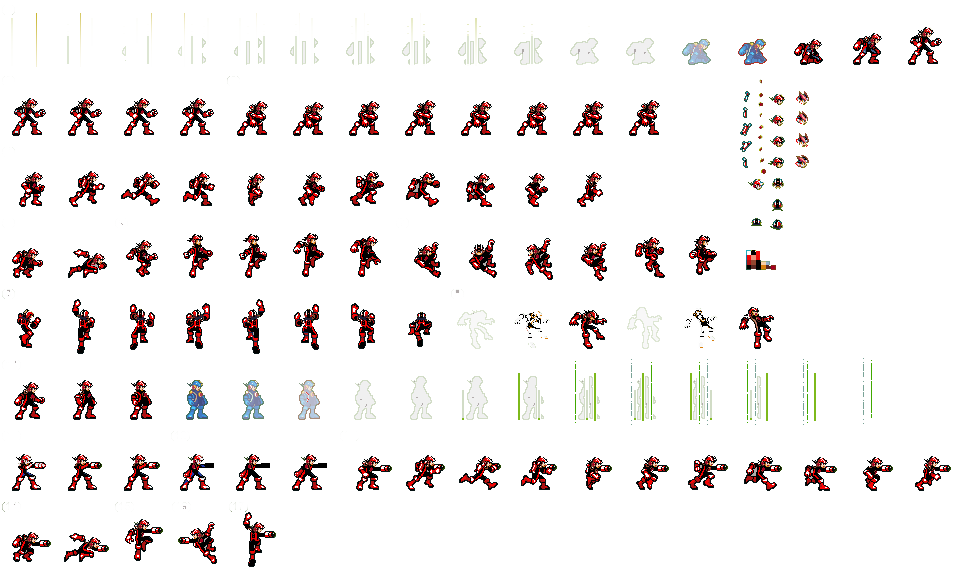
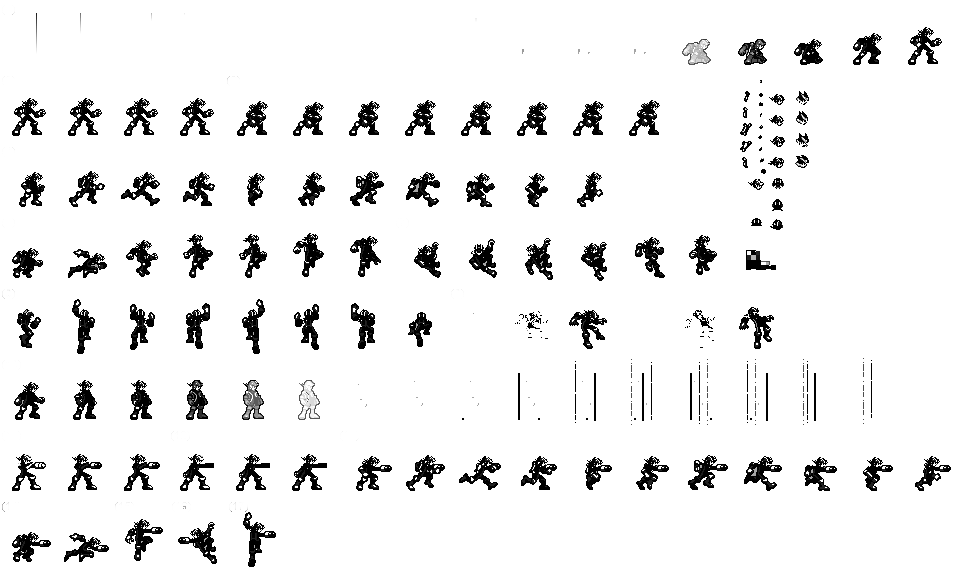
Double jump and recolour.

diff --git a/JS/player.js b/JS/player.js
@@ -1,3 +1,7 @@
+// Constants
+MAX_HEALTH = 3
+JUMP_SPEED = 400
+
 // Player constructor
 var Player = function(game, x, y) 
 {
@@ -17,17 +21,22 @@ var Player = function(game, x, y)
 	this.animations.add('idle', [17,18,19,17,17,17,18,19,17,17,18,19,20,85,86,87,86,85,20,19,17]);
 	this.animations.add('hurt', [21,22,23,24,25,26,27,28]);
 	this.animations.add('crouch',[14]);
-	this.animations.add('jump', [51,53,54]);
+	this.animations.add('jump', [53]);
 	this.animations.add('air', [54,55]);
 	this.animations.add('land', [56,57,51]);
 	this.animations.add('shootIdle', [103]);
 	this.animations.add('shootRun', [108,109,110,111,112,113,114,115,116,117,118]);
 	this.animations.add('shootAir', [121]);
+	this.animations.add('hit', [76,77,78]);
 	
 	// player attributes
-	this.health = 3;
+	this.health = MAX_HEALTH;
 	this.anchor.setTo(.5, 1);
 	this.direction = MoveState.RIGHT;
+	this.damageStep = false;
+	
+	this.jumps = 0;
+	this.jumping = false;
 	
 	// Enable phyiscs on player
 	game.physics.enable(this, Phaser.Physics.ARCADE);
@@ -51,131 +60,170 @@ Player.prototype.constructor = Player;
 
 Player.prototype.update = function() {
 	playerMovement(this); // Keyboard Controls
+	if (this.health <= 0)
+	{
+		this.kill();
+	}
 };
 
 function playerMovement(player) 
 {
-	/** Left Button **/
-	if (wasd.left.isDown)
+	if (!player.damageStep)
 	{
-		// Is facing the wrong way, flip sprite horizontally.
-		if (player.direction == MoveState.RIGHT)
+		/** Left Button **/
+		if (wasd.left.isDown)
 		{
-			player.scale.x *= -1;
-			player.direction = MoveState.LEFT;
-			player.weapon.fireAngle =180;
-			player.weapon.trackSprite(player, -24, -33);
-		}
-		
-		// If player is stood on a surface
-		if (player.body.onFloor())
-		{
-			// Accelerate player left.
-			if(player.body.velocity.x > -50)
+			// Is facing the wrong way, flip sprite horizontally.
+			if (player.direction == MoveState.RIGHT)
 			{
-				player.body.velocity.x = -50;
-			}
-			else if(player.body.velocity.x >= -295)
-			{
-				player.body.velocity.x -= 5;
+				player.scale.x *= -1;
+				player.direction = MoveState.LEFT;
+				player.weapon.fireAngle =180;
+				player.weapon.trackSprite(player, -24, -33);
 			}
 			
-			drawWalkFrames(player);
-		}
-		// Else if player is airbourne
-		else
-		{
-			drawAirFrames(player);
-			
-			// slow player's horizontal movement (drag)
-			player.body.velocity.x *= 0.995;
-			
-			// Give player some in-air control.
-			if (player.body.velocity.x > -200)
+			// If player is stood on a surface
+			if (player.body.onFloor())
 			{
-				player.body.velocity.x -= 5
+				// Accelerate player left.
+				if(player.body.velocity.x > -50)
+				{
+					player.body.velocity.x = -50;
+				}
+				else if(player.body.velocity.x >= -295)
+				{
+					player.body.velocity.x -= 5;
+				}
+				
+				drawWalkFrames(player);
+			}
+			// Else if player is airbourne
+			else
+			{
+				drawAirFrames(player);
+				
+				// slow player's horizontal movement (drag)
+				player.body.velocity.x *= 0.995;
+				
+				// Give player some in-air control.
+				if (player.body.velocity.x > -200)
+				{
+					player.body.velocity.x -= 5
+				}
 			}
 		}
-	}
-	/** Right Button **/
-	else if (wasd.right.isDown)
-	{
-		// Is facing the wrong way, flip sprite horizontally.
-		if (player.direction == MoveState.LEFT)
+		/** Right Button **/
+		else if (wasd.right.isDown)
 		{
-			player.scale.x *= -1;
-			player.direction = MoveState.RIGHT;
-			player.weapon.fireAngle = 0;
-			player.weapon.trackSprite(player, 24, -33);
-		}
-		
-		// If player is stood on a surface
-		if (player.body.onFloor())
-		{	
-			// Accelerate player right.
-			if(player.body.velocity.x < 50)
+			// Is facing the wrong way, flip sprite horizontally.
+			if (player.direction == MoveState.LEFT)
 			{
-				player.body.velocity.x = 50;
-			}
-			else if(player.body.velocity.x <= 295)
-			{
-				player.body.velocity.x += 5;
+				player.scale.x *= -1;
+				player.direction = MoveState.RIGHT;
+				player.weapon.fireAngle = 0;
+				player.weapon.trackSprite(player, 24, -33);
 			}
 			
-			drawWalkFrames(player);
-		}
-		// Else if player is airbourne
-		else
-		{
-			drawAirFrames(player);
+			// If player is stood on a surface
+			if (player.body.onFloor())
+			{	
+				// Accelerate player right.
+				if(player.body.velocity.x < 50)
+				{
+					player.body.velocity.x = 50;
+				}
+				else if(player.body.velocity.x <= 295)
+				{
+					player.body.velocity.x += 5;
+				}
+				
+				drawWalkFrames(player);
+			}
+			// Else if player is airbourne
+			else
+			{
+				drawAirFrames(player);
 
-			// slow player's horizontal movement (drag)
-			player.body.velocity.x *= 0.995;
-			
-			// Give player some in-air control.
-			if (player.body.velocity.x < 200)
-			{
-				player.body.velocity.x += 5;
+				// slow player's horizontal movement (drag)
+				player.body.velocity.x *= 0.995;
+				
+				// Give player some in-air control.
+				if (player.body.velocity.x < 200)
+				{
+					player.body.velocity.x += 5;
+				}
 			}
 		}
-	}
-	/** Down (Crouch) Button **/
-	else if (wasd.down.isDown)
-	{
-		if (player.body.onFloor())
+		/** Down (Crouch) Button **/
+		else if (wasd.down.isDown)
 		{
-			player.body.velocity.x = 0;
-			player.animations.play('crouch', 5, true);
+			if (player.body.onFloor())
+			{
+				player.body.velocity.x = 0;
+				player.animations.play('crouch', 5, true);
+			}
 		}
+		/** Neither Left, Nor Right Button **/
+		else
+		{
+			// Airbourne - slow player's horizontal movement
+			if (!player.body.onFloor())
+			{
+				drawAirFrames(player);
+				player.body.velocity.x *= 0.995;
+			}
+			// Stood on land
+			else
+			{
+				drawIdleFrames(player);
+				player.body.velocity.x = 0; // Stop player		
+			}		
+		}
+		
+		/** Up (Jump) Button **/
+		if (wasd.up.isDown)
+		{
+			// Jump just started
+			if (player.jumping == false)
+			{
+				player.jumping = true;
+				
+				// Reset double jump when on floor.
+				if (player.body.onFloor())
+				{
+					player.jumps = 2;
+				}
+				
+				// else must be jumping in the air, reduce jumps left
+				else if (player.jumps > 0)
+				{
+					player.jumps--;
+				}
+			}
+			// up is being held, allow this to increase jump height for short period.
+			else if (player.jumps > 0 && (wasd.up.duration<250)) 
+			{
+				player.animations.play('jump', 1, true);
+				player.body.velocity.y = -this.JUMP_SPEED;
+			}
+
+		}
+		// If jump is not being held, then reset jumping variable.
+		else if (player.jumping){
+			player.jumping = false;
+		}
+		
+		
 	}
-	/** Neither Left, Nor Right Button **/
 	else
 	{
-		// Airbourne - slow player's horizontal movement
-		if (!player.body.onFloor())
+		player.animations.play('hit', 20, true);
+		if (player.animations.currentAnim.loopCount > 1)
 		{
-			drawAirFrames(player);
-			player.body.velocity.x *= 0.995;
-		}
-		// Stood on land
-		else
-		{
-			drawIdleFrames(player);
-			player.body.velocity.x = 0; // Stop player		
-		}		
-	}
-	
-	/** Up (Jump) Button **/
-	if (wasd.up.isDown)
-	{			
-		if (player.body.onFloor())
-		{
-			player.animations.play('jump', 1, true);
-			player.body.velocity.y = -500;
+			player.damageStep = false;
+			player.health--;
 		}
 	}
-	
-
 }
 
 /***  ***/
@@ -214,7 +262,7 @@ function drawIdleFrames(player)
 		player.weapon.fire();
 	}
 	// If hurt play laboured animation.
-	else if (player.health < 3)
+	else if (player.health < MAX_HEALTH)
 	{
 		player.animations.play('hurt', 5, true);
 	}
@@ -237,4 +285,9 @@ function drawAirFrames(player)
 	{
 		player.animations.play('air', 2, true);
 	}
+}
+
+Player.prototype.hit = function()
+{
+	this.damageStep=true;
 }

diff --git a/JS/game.js b/JS/game.js
@@ -60,12 +60,21 @@ var Game = {
 		// Missile Collision
 		missileGroup.forEachAlive(function(m) 
 		{
-			// Floor or player
+			// Player
 			tempDistance = game.math.distance(m.x, m.y, p.x-24, p.y-33);
-			if ((tempDistance < 25)||(m.y > 580))
+			if (tempDistance < 25)
 			{
-				m.kill();
 				getExplosion(m.x, m.y);
+				m.kill();
+				p.hit();
+			}
+			
+			// Floor
+			tempDistance = game.math.distance(m.x, m.y, p.x-24, p.y-33);
+			if (m.y > 580)
+			{
+				getExplosion(m.x, m.y);
+				m.kill();
 			}
 			
 			// Missiles
@@ -76,8 +85,8 @@ var Game = {
 					tempDistance = game.math.distance(m.x, m.y, m2.x, m2.y);
 				if (tempDistance < 15)
 				{
-					m.kill();
 					getExplosion(m.x, m.y);
+					m.kill();
 					m2.kill();
 				}
 				}
@@ -90,8 +99,8 @@ var Game = {
 				tempDistance = game.math.distance(m.x, m.y, b.x, b.y);
 				if (tempDistance < 12)
 				{
-					m.kill();
 					getExplosion(m.x, m.y);
+					m.kill();
 					b.kill();
 				}
 			}, this);
